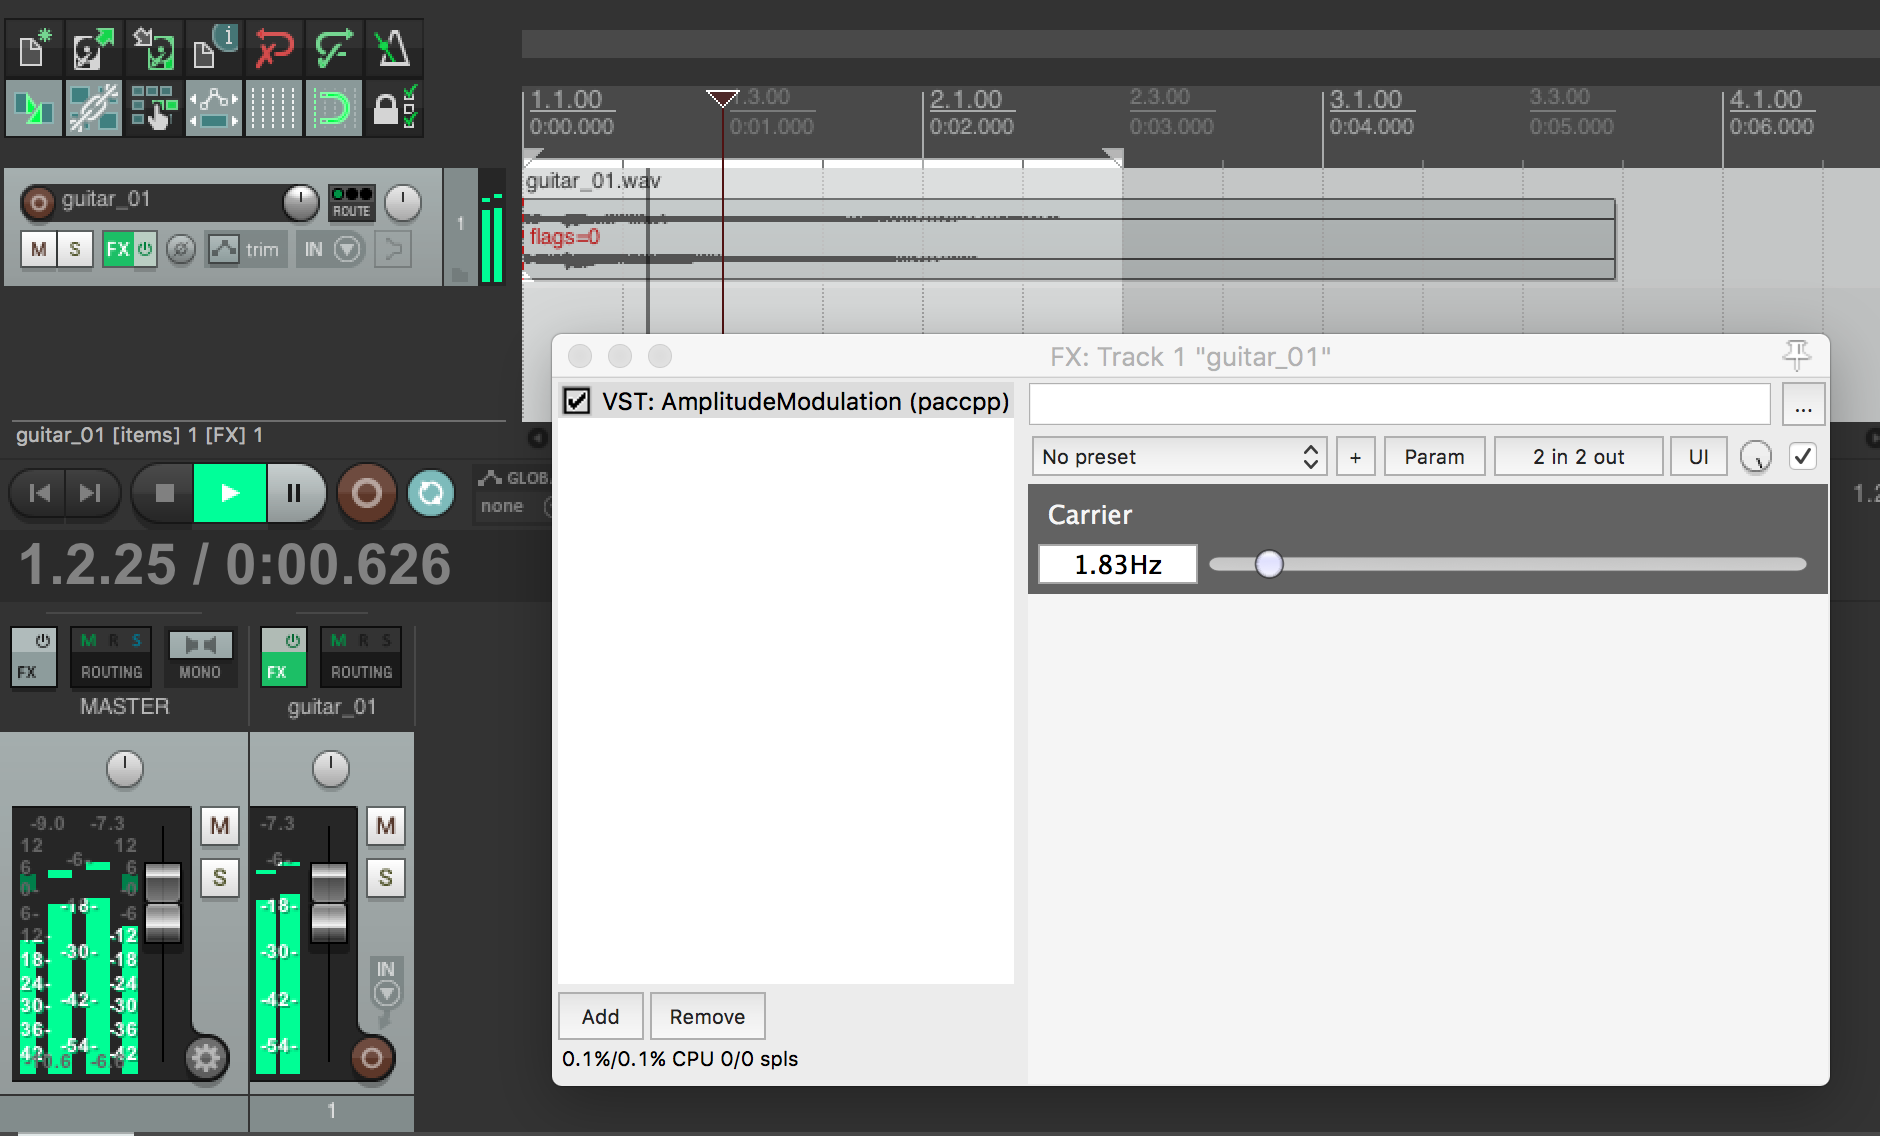
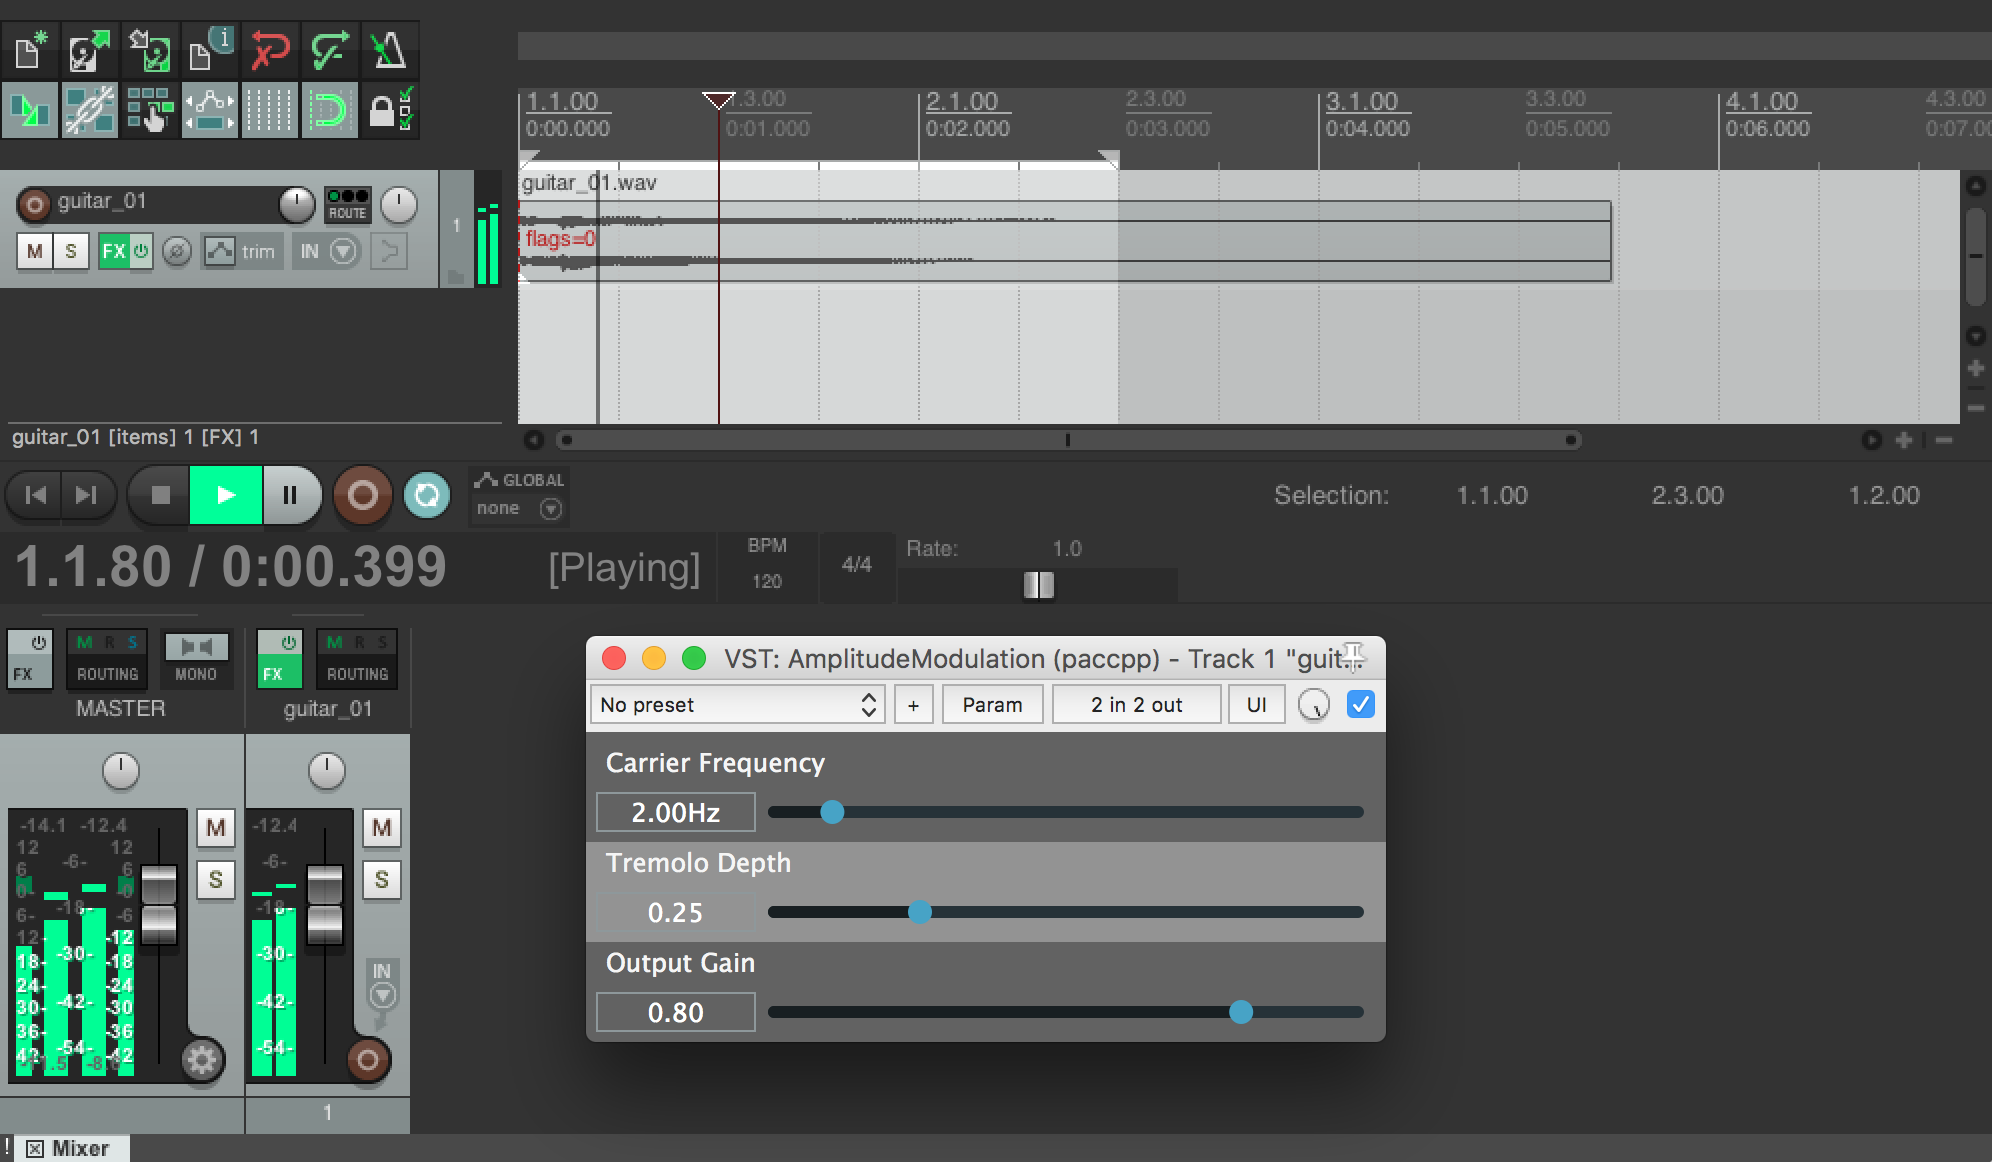
update AmplitudeModulation plugin

diff --git a/AmplitudeModulation/readme.md b/AmplitudeModulation/readme.md
@@ -2,6 +2,4 @@
 
 A simple plugin de modulation d'amplitude
 
-> Note: Dans l'état courant, ce plugin se rapproche plus d'un traitement de modulation en anneau.
-
 ![AmplitudeModulation plugin inReaper Host capture](AmplitudeModulation.png)
